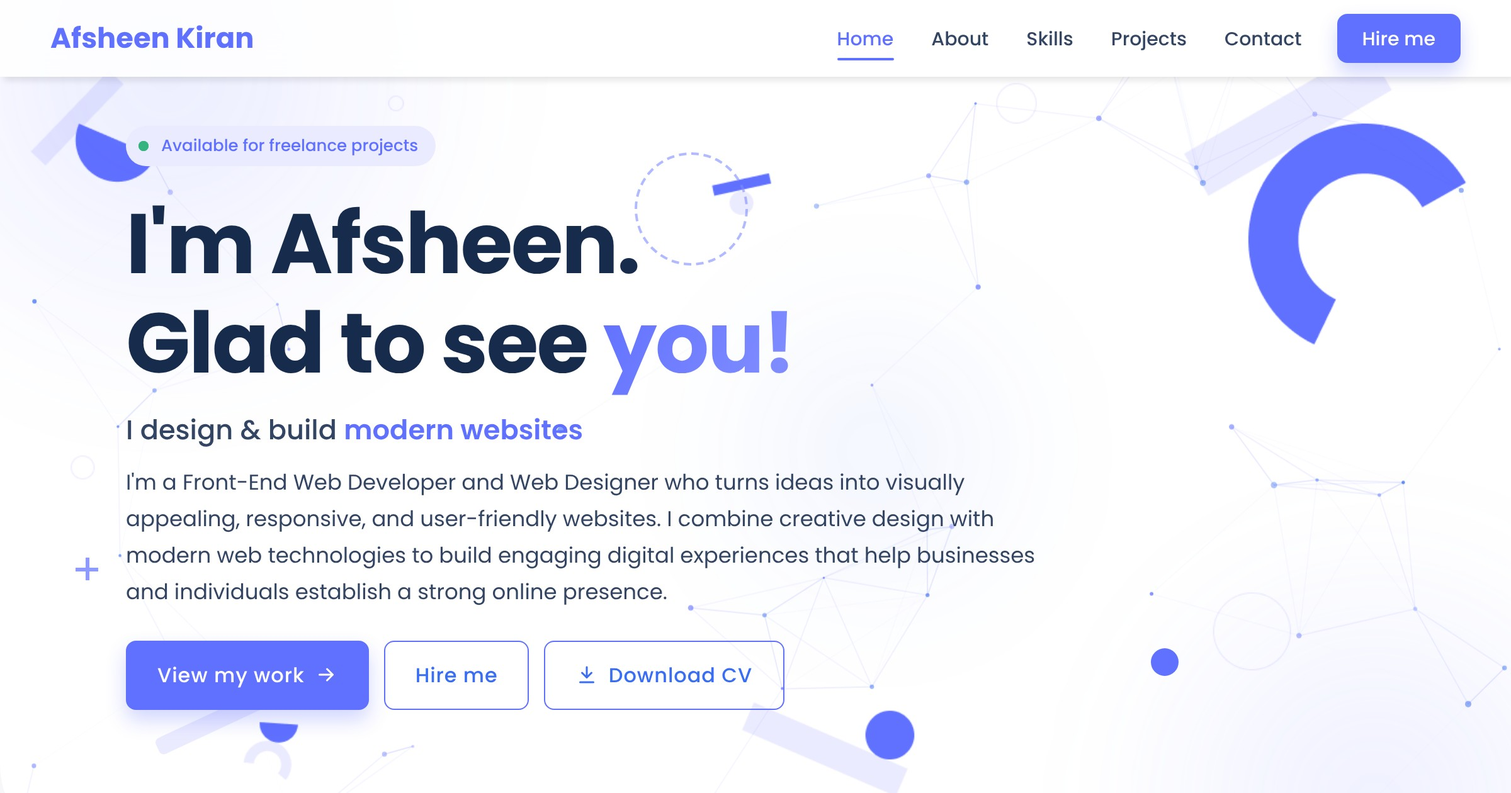
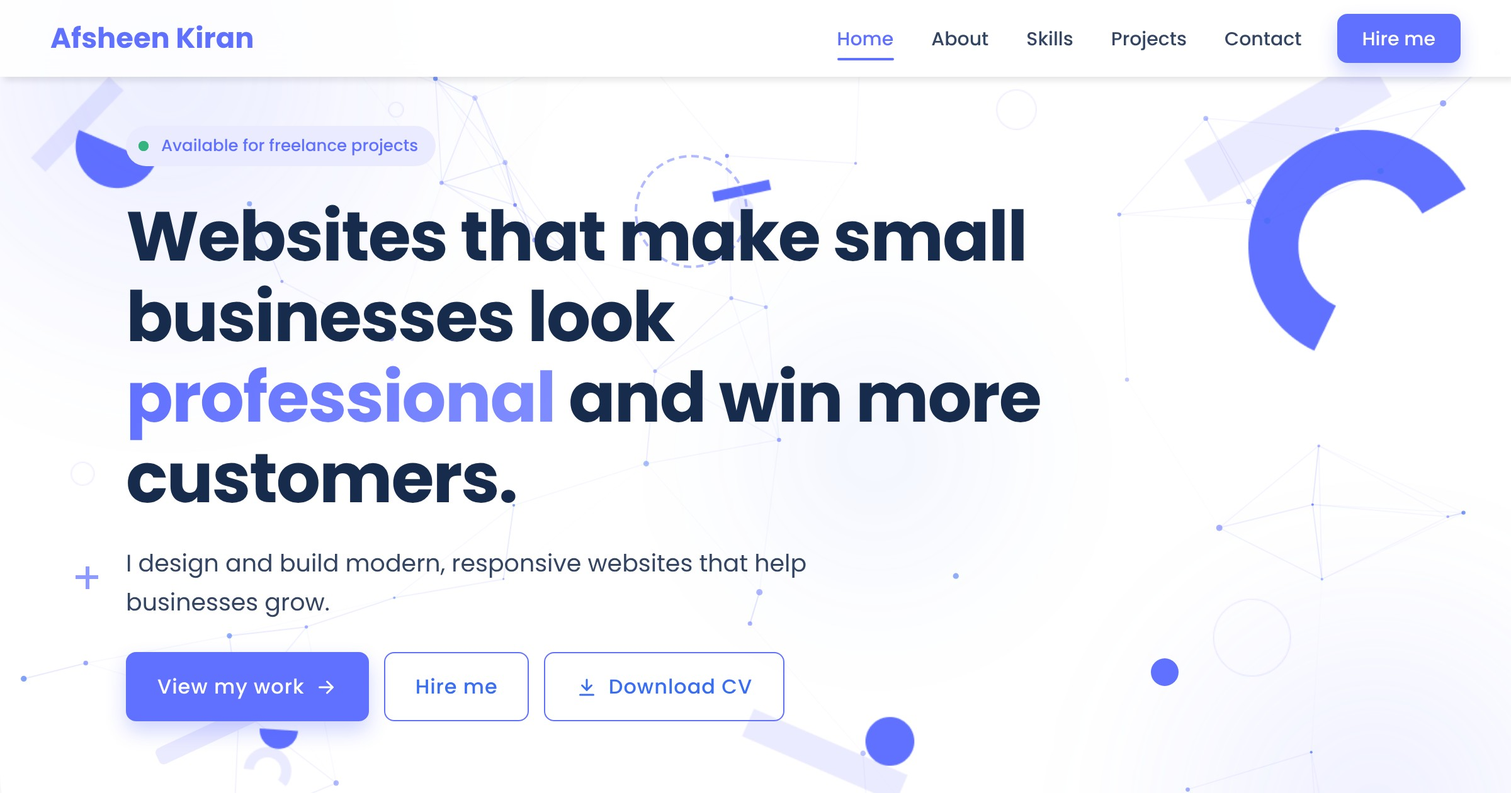
Client-focused hero headline and add BidNest as Project 05
- Hero: new headline and a short two-line intro; the typed line that repeated
  the intro is removed
- BidNest joins PROJECTS (own_page) so it appears on Home and Projects with a
  View Case Study link to the existing page; the build never overwrites it
- Projects filter gains UI/UX Design; counts now All 5
- Quick view supports a custom link label and hides the empty source button
- Case-study prev/next now pass through BidNest; sitemap includes it
- Refresh the link-preview screenshot

Claude-Session: https://claude.ai/code/session_0127q1ox5UVrQmZGSpPh9mkh

diff --git a/index.html b/index.html
@@ -5,14 +5,14 @@
   <meta charset="UTF-8">
   <meta name="viewport" content="width=device-width, initial-scale=1.0">
   <title>Afsheen Kiran | Front-End Web Developer &amp; Web Designer</title>
-  <meta name="description" content="Afsheen Kiran is a front-end web developer and web designer who turns ideas into visually appealing, responsive and user-friendly websites. See HighTechZone, Learning AI Lecture Hub, Fomi Studio and Fomi Flow.">
+  <meta name="description" content="Afsheen Kiran is a front-end web developer and web designer who turns ideas into visually appealing, responsive and user-friendly websites. See HighTechZone, Learning AI Lecture Hub, Fomi Studio, Fomi Flow and BidNest.">
   <meta name="author" content="Afsheen Kiran">
   <meta name="theme-color" content="#6070ff">
   <link rel="canonical" href="https://afsheen96.github.io/Portfolio/">
   <meta property="og:type" content="website">
   <meta property="og:site_name" content="Afsheen Kiran Portfolio">
   <meta property="og:title" content="Afsheen Kiran | Front-End Web Developer &amp; Web Designer">
-  <meta property="og:description" content="Afsheen Kiran is a front-end web developer and web designer who turns ideas into visually appealing, responsive and user-friendly websites. See HighTechZone, Learning AI Lecture Hub, Fomi Studio and Fomi Flow.">
+  <meta property="og:description" content="Afsheen Kiran is a front-end web developer and web designer who turns ideas into visually appealing, responsive and user-friendly websites. See HighTechZone, Learning AI Lecture Hub, Fomi Studio, Fomi Flow and BidNest.">
   <meta property="og:url" content="https://afsheen96.github.io/Portfolio/">
   <meta property="og:locale" content="en_US">
   <meta property="og:image" content="https://afsheen96.github.io/Portfolio/resources/og-hero.jpg">
@@ -22,7 +22,7 @@
   <meta property="og:image:height" content="1260">
   <meta name="twitter:card" content="summary_large_image">
   <meta name="twitter:title" content="Afsheen Kiran | Front-End Web Developer &amp; Web Designer">
-  <meta name="twitter:description" content="Afsheen Kiran is a front-end web developer and web designer who turns ideas into visually appealing, responsive and user-friendly websites. See HighTechZone, Learning AI Lecture Hub, Fomi Studio and Fomi Flow.">
+  <meta name="twitter:description" content="Afsheen Kiran is a front-end web developer and web designer who turns ideas into visually appealing, responsive and user-friendly websites. See HighTechZone, Learning AI Lecture Hub, Fomi Studio, Fomi Flow and BidNest.">
   <meta name="twitter:image" content="https://afsheen96.github.io/Portfolio/resources/og-hero.jpg">
   <link rel="icon" href="favicon.svg" type="image/svg+xml">
   <link rel="preconnect" href="https://fonts.googleapis.com">
@@ -77,19 +77,9 @@
       <section class="headline">
         <p class="availability hero-in d-0"><span class="pulse"></span>Available for freelance projects</p>
         <h1 class="heading hero-heading">
-          <span class="line"><span>I'm Afsheen.</span></span>
-          <span class="line"><span>Glad to see <span class="gradient-text">you!</span></span></span>
+          <span class="line"><span>Websites that make small businesses look <span class="gradient-text">professional</span> and win more customers.</span></span>
         </h1>
-        <p class="hero-roles hero-in d-3" aria-live="polite">
-          I design &amp; build <span class="typed" id="typed">modern websites</span><span class="caret" aria-hidden="true"></span>
-        </p>
-        <p class="headline-paragraph hero-in d-4">
-          I'm a Front-End Web Developer and Web Designer who turns ideas into
-          visually appealing, responsive, and user-friendly websites. I combine
-          creative design with modern web technologies to build engaging digital
-          experiences that help businesses and individuals establish a strong
-          online presence.
-        </p>
+        <p class="headline-paragraph hero-intro hero-in d-3">I design and build modern, responsive websites that help businesses grow.</p>
         <div class="hero-actions hero-in d-5">
           <a class="btn btn-primary btn-shine magnetic" href="projects/">View my work <svg viewBox="0 0 24 24" aria-hidden="true"><path d="M5 12h14M13 6l6 6-6 6"/></svg></a>
           <a class="btn btn-ghost magnetic" href="hire-me/">Hire me</a>
@@ -256,6 +246,39 @@
           </div>
         </div>
       </article>
+      <article class="project-card reveal" data-category="design">
+        <a class="pc-media" href="projects/bidnest/" aria-label="Open the BidNest case study" tabindex="-1">
+          <span class="pc-glow" aria-hidden="true"></span>
+          <div class="browser-frame pc-desktop">
+            <div class="browser-bar"><span></span><span></span><span></span><em>Figma · BidNest UI/UX case study</em></div>
+            <div class="frame-shot"><img src="resources/shots/bidnest-desktop.webp" alt="The BidNest screens designed in Figma" width="1440" height="900" loading="lazy" decoding="async"></div>
+          </div>
+          <div class="phone-frame pc-phone"><span class="phone-notch"></span><img src="resources/shots/bidnest-mobile.webp" alt="Screenshot of BidNest on a phone" width="585" height="1266" loading="lazy" decoding="async"></div>
+          <span class="pc-hint" aria-hidden="true">View case study <svg viewBox="0 0 24 24" aria-hidden="true"><path d="M5 12h14M13 6l6 6-6 6"/></svg></span>
+        </a>
+        <div class="pc-body">
+          <div class="pc-top">
+            <span class="pc-num">05</span>
+            <span class="pc-type">UI/UX Design</span>
+            
+          </div>
+          <h3 class="pc-title"><a href="projects/bidnest/">BidNest</a></h3>
+          <ul class="proj">
+            <li><strong>Personal</strong></li>
+            <li><div class="dot"></div></li>
+            <li>UI/UX Designer</li>
+            <li><div class="dot"></div></li>
+            <li>2026</li>
+          </ul>
+          <p class="pro">A UI/UX case study designed in Figma: a real-estate bidding app with its own design system and a clickable prototype that makes the highest bid, time left and bid status clear at a glance.</p>
+          <ul class="language"><li>Figma</li><li>UI/UX Design</li><li>Design System</li><li>Prototyping</li></ul>
+          <div class="work-actions">
+            <a class="btn btn-primary btn-shine magnetic" href="projects/bidnest/">View Case Study <svg viewBox="0 0 24 24" aria-hidden="true"><path d="M5 12h14M13 6l6 6-6 6"/></svg></a>
+            <a class="btn btn-ghost magnetic" href="https://www.behance.net/gallery/257870063/BidNest-Real-Estate-Bidding-App-UIUX-Case-Study" target="_blank" rel="noopener">Behance <svg viewBox="0 0 24 24" aria-hidden="true"><path d="M14 4h6v6M20 4l-9 9M18 14v5a1 1 0 0 1-1 1H5a1 1 0 0 1-1-1V7a1 1 0 0 1 1-1h5"/></svg></a>
+            <button type="button" class="icon-link quick-view" data-project="bidnest" aria-label="Quick view of BidNest" title="Quick view"><svg viewBox="0 0 24 24" aria-hidden="true"><path d="M2 12s3.6-7 10-7 10 7 10 7-3.6 7-10 7S2 12 2 12z"/><circle cx="12" cy="12" r="3"/></svg></button>
+          </div>
+        </div>
+      </article>
       </div>
       <div class="center-link reveal"><a class="btn btn-ghost magnetic" href="projects/">See all projects <svg viewBox="0 0 24 24" aria-hidden="true"><path d="M5 12h14M13 6l6 6-6 6"/></svg></a></div>
     </section>
@@ -292,7 +315,7 @@
       </div>
     </section>
   </main>
-  <script type="application/json" id="projects-data">[{"slug": "hightechzone", "name": "HighTechZone", "client": "Personal", "role": "Founder, Designer & Developer", "year": "2026", "text": "HighTechZone is my own website, \"Your Gateway to Smarter Technology\". It brings AI tool guides, practical tech tips, digital-skills tutorials and free resources together in one place. I designed and built it myself with plain HTML, CSS and JavaScript: a bold dark theme with warm gradients, an animated hero, dropdown navigation, a search dialog, FAQ sections, articles and interactive tools such as an AI Prompt Builder, a Password Strength Checker and a Budget Tracker template.", "tech": ["HTML5", "CSS3", "JavaScript", "SEO", "GitHub Pages", "Git"], "image": "resources/shots/hightechzone-desktop.webp", "live": "https://afsheen96.github.io/HighTechZone/", "source": "https://github.com/Afsheen96", "sourceLabel": "GitHub profile", "page": "projects/hightechzone/"}, {"slug": "learning-ai-lecture-hub", "name": "Learning AI Lecture Hub", "client": "Personal (student project)", "role": "Designer & Developer", "year": "2026", "text": "Learning AI Lecture Hub (published as \"Learn Freelancing AI — Lecture Library\") is an independent, student-made page that collects the links to Sir Hisham Sarwar's Learn Freelancing AI lectures, so learners can find any lecture in seconds. Learners can search by lecture name, number or topic, filter by category (AI & Automation, Freelancing, Web & App Development, Digital Marketing) and open the original video with one click. The page clearly states that it is not an official website and that the videos stay on Facebook.", "tech": ["HTML5", "CSS3", "JavaScript", "JSON", "Node.js build script", "GitHub Actions", "GitHub Pages"], "image": "resources/shots/lecture-hub-desktop.webp", "live": "https://afsheen96.github.io/lecture-library/", "source": "https://github.com/Afsheen96/lecture-library", "sourceLabel": "Source code", "page": "projects/learning-ai-lecture-hub/"}, {"slug": "fomi-studio", "name": "Fomi Studio: AI Image Workspace", "client": "Hiring Assessment", "role": "Frontend Developer", "year": "2026", "text": "I built this as part of a frontend hiring assessment: an AI Image Generator design mockup turned into a real, working Next.js app. It includes a model picker, reference uploads, a prompt box with keyboard shortcuts, a mocked API that \"generates\" images and videos, loading placeholders in the right shape, a masonry gallery, a full-size viewer with keyboard navigation, and a guided tutorial that highlights the real controls.", "tech": ["Next.js", "React", "CSS Modules", "JavaScript", "Vercel", "GitHub"], "image": "resources/shots/fomi-studio-desktop.webp", "live": "https://fomi-studio-weld.vercel.app", "source": "https://github.com/Afsheen96/fomi-studio", "sourceLabel": "Source code", "page": "projects/fomi-studio/"}, {"slug": "fomi-flow", "name": "Fomi Flow: Version-based Workspace", "client": "Hiring Assessment", "role": "Product & UI", "year": "2026", "text": "My own concept, created during the same frontend hiring assessment. Most AI image tools show results as an endless feed, so good results get lost. In Fomi Flow every generation is a version inside a project. A version strip shows the history (with branches like \"from v2\"), a compare slider puts two versions side by side, and a \"What changed\" panel lists the prompt words added or removed and any settings change.", "tech": ["Next.js", "React", "UX Design", "JavaScript", "CSS Modules", "Vercel"], "image": "resources/shots/fomi-flow-desktop.webp", "live": "https://fomi-studio-weld.vercel.app/flow", "source": "https://github.com/Afsheen96/fomi-studio", "sourceLabel": "Source code", "page": "projects/fomi-flow/"}]</script>
+  <script type="application/json" id="projects-data">[{"slug": "hightechzone", "name": "HighTechZone", "client": "Personal", "role": "Founder, Designer & Developer", "year": "2026", "text": "HighTechZone is my own website, \"Your Gateway to Smarter Technology\". It brings AI tool guides, practical tech tips, digital-skills tutorials and free resources together in one place. I designed and built it myself with plain HTML, CSS and JavaScript: a bold dark theme with warm gradients, an animated hero, dropdown navigation, a search dialog, FAQ sections, articles and interactive tools such as an AI Prompt Builder, a Password Strength Checker and a Budget Tracker template.", "tech": ["HTML5", "CSS3", "JavaScript", "SEO", "GitHub Pages", "Git"], "image": "resources/shots/hightechzone-desktop.webp", "live": "https://afsheen96.github.io/HighTechZone/", "source": "https://github.com/Afsheen96", "sourceLabel": "GitHub profile", "liveLabel": "Live Link", "page": "projects/hightechzone/"}, {"slug": "learning-ai-lecture-hub", "name": "Learning AI Lecture Hub", "client": "Personal (student project)", "role": "Designer & Developer", "year": "2026", "text": "Learning AI Lecture Hub (published as \"Learn Freelancing AI — Lecture Library\") is an independent, student-made page that collects the links to Sir Hisham Sarwar's Learn Freelancing AI lectures, so learners can find any lecture in seconds. Learners can search by lecture name, number or topic, filter by category (AI & Automation, Freelancing, Web & App Development, Digital Marketing) and open the original video with one click. The page clearly states that it is not an official website and that the videos stay on Facebook.", "tech": ["HTML5", "CSS3", "JavaScript", "JSON", "Node.js build script", "GitHub Actions", "GitHub Pages"], "image": "resources/shots/lecture-hub-desktop.webp", "live": "https://afsheen96.github.io/lecture-library/", "source": "https://github.com/Afsheen96/lecture-library", "sourceLabel": "Source code", "liveLabel": "Live Link", "page": "projects/learning-ai-lecture-hub/"}, {"slug": "fomi-studio", "name": "Fomi Studio: AI Image Workspace", "client": "Hiring Assessment", "role": "Frontend Developer", "year": "2026", "text": "I built this as part of a frontend hiring assessment: an AI Image Generator design mockup turned into a real, working Next.js app. It includes a model picker, reference uploads, a prompt box with keyboard shortcuts, a mocked API that \"generates\" images and videos, loading placeholders in the right shape, a masonry gallery, a full-size viewer with keyboard navigation, and a guided tutorial that highlights the real controls.", "tech": ["Next.js", "React", "CSS Modules", "JavaScript", "Vercel", "GitHub"], "image": "resources/shots/fomi-studio-desktop.webp", "live": "https://fomi-studio-weld.vercel.app", "source": "https://github.com/Afsheen96/fomi-studio", "sourceLabel": "Source code", "liveLabel": "Live Link", "page": "projects/fomi-studio/"}, {"slug": "fomi-flow", "name": "Fomi Flow: Version-based Workspace", "client": "Hiring Assessment", "role": "Product & UI", "year": "2026", "text": "My own concept, created during the same frontend hiring assessment. Most AI image tools show results as an endless feed, so good results get lost. In Fomi Flow every generation is a version inside a project. A version strip shows the history (with branches like \"from v2\"), a compare slider puts two versions side by side, and a \"What changed\" panel lists the prompt words added or removed and any settings change.", "tech": ["Next.js", "React", "UX Design", "JavaScript", "CSS Modules", "Vercel"], "image": "resources/shots/fomi-flow-desktop.webp", "live": "https://fomi-studio-weld.vercel.app/flow", "source": "https://github.com/Afsheen96/fomi-studio", "sourceLabel": "Source code", "liveLabel": "Live Link", "page": "projects/fomi-flow/"}, {"slug": "bidnest", "name": "BidNest", "client": "Personal", "role": "UI/UX Designer", "year": "2026", "text": "A mobile app redesign of my MSc house bidding website, designed in Figma. I built a reusable design system (9 colour styles, 6 text styles, 12 components) and five screens, Home, Property Details, Live Bidding, an Outbid state and My Bids, linked into a clickable prototype.", "tech": ["Figma", "UI/UX Design", "Design System", "Prototyping"], "image": "resources/shots/bidnest-desktop.webp", "live": "https://www.behance.net/gallery/257870063/BidNest-Real-Estate-Bidding-App-UIUX-Case-Study", "source": "", "sourceLabel": "", "liveLabel": "View on Behance", "page": "projects/bidnest/"}]</script>
   <div id="popupWindow" class="project_window"></div>
 
   <footer class="site-footer">

diff --git a/projects/index.html b/projects/index.html
@@ -5,14 +5,14 @@
   <meta charset="UTF-8">
   <meta name="viewport" content="width=device-width, initial-scale=1.0">
   <title>Projects | Afsheen Kiran Portfolio</title>
-  <meta name="description" content="Website and web app projects by Afsheen Kiran: HighTechZone, Learning AI Lecture Hub, Fomi Studio and Fomi Flow, each with a full case study and live link.">
+  <meta name="description" content="Website, web app and UI/UX design projects by Afsheen Kiran: HighTechZone, Learning AI Lecture Hub, Fomi Studio, Fomi Flow and BidNest, each with a full case study.">
   <meta name="author" content="Afsheen Kiran">
   <meta name="theme-color" content="#6070ff">
   <link rel="canonical" href="https://afsheen96.github.io/Portfolio/projects/">
   <meta property="og:type" content="website">
   <meta property="og:site_name" content="Afsheen Kiran Portfolio">
   <meta property="og:title" content="Projects | Afsheen Kiran Portfolio">
-  <meta property="og:description" content="Website and web app projects by Afsheen Kiran: HighTechZone, Learning AI Lecture Hub, Fomi Studio and Fomi Flow, each with a full case study and live link.">
+  <meta property="og:description" content="Website, web app and UI/UX design projects by Afsheen Kiran: HighTechZone, Learning AI Lecture Hub, Fomi Studio, Fomi Flow and BidNest, each with a full case study.">
   <meta property="og:url" content="https://afsheen96.github.io/Portfolio/projects/">
   <meta property="og:locale" content="en_US">
   <meta property="og:image" content="https://afsheen96.github.io/Portfolio/resources/og-hero.jpg">
@@ -22,7 +22,7 @@
   <meta property="og:image:height" content="1260">
   <meta name="twitter:card" content="summary_large_image">
   <meta name="twitter:title" content="Projects | Afsheen Kiran Portfolio">
-  <meta name="twitter:description" content="Website and web app projects by Afsheen Kiran: HighTechZone, Learning AI Lecture Hub, Fomi Studio and Fomi Flow, each with a full case study and live link.">
+  <meta name="twitter:description" content="Website, web app and UI/UX design projects by Afsheen Kiran: HighTechZone, Learning AI Lecture Hub, Fomi Studio, Fomi Flow and BidNest, each with a full case study.">
   <meta name="twitter:image" content="https://afsheen96.github.io/Portfolio/resources/og-hero.jpg">
   <link rel="icon" href="../favicon.svg" type="image/svg+xml">
   <link rel="preconnect" href="https://fonts.googleapis.com">
@@ -74,9 +74,10 @@
     </section>
     <section class="work-section projects-page">
       <div class="filter-bar reveal" role="group" aria-label="Filter projects">
-        <button type="button" class="filter-btn active" data-filter="all" aria-pressed="true">All <span>4</span></button>
+        <button type="button" class="filter-btn active" data-filter="all" aria-pressed="true">All <span>5</span></button>
         <button type="button" class="filter-btn" data-filter="website" aria-pressed="false">Websites <span>2</span></button>
         <button type="button" class="filter-btn" data-filter="webapp" aria-pressed="false">Web Apps <span>2</span></button>
+        <button type="button" class="filter-btn" data-filter="design" aria-pressed="false">UI/UX Design <span>1</span></button>
       </div>
       <div class="project-list">
       <article class="project-card reveal is-featured" data-category="website">
@@ -207,6 +208,39 @@
           </div>
         </div>
       </article>
+      <article class="project-card reveal" data-category="design">
+        <a class="pc-media" href="../projects/bidnest/" aria-label="Open the BidNest case study" tabindex="-1">
+          <span class="pc-glow" aria-hidden="true"></span>
+          <div class="browser-frame pc-desktop">
+            <div class="browser-bar"><span></span><span></span><span></span><em>Figma · BidNest UI/UX case study</em></div>
+            <div class="frame-shot"><img src="../resources/shots/bidnest-desktop.webp" alt="The BidNest screens designed in Figma" width="1440" height="900" loading="lazy" decoding="async"></div>
+          </div>
+          <div class="phone-frame pc-phone"><span class="phone-notch"></span><img src="../resources/shots/bidnest-mobile.webp" alt="Screenshot of BidNest on a phone" width="585" height="1266" loading="lazy" decoding="async"></div>
+          <span class="pc-hint" aria-hidden="true">View case study <svg viewBox="0 0 24 24" aria-hidden="true"><path d="M5 12h14M13 6l6 6-6 6"/></svg></span>
+        </a>
+        <div class="pc-body">
+          <div class="pc-top">
+            <span class="pc-num">05</span>
+            <span class="pc-type">UI/UX Design</span>
+            
+          </div>
+          <h3 class="pc-title"><a href="../projects/bidnest/">BidNest</a></h3>
+          <ul class="proj">
+            <li><strong>Personal</strong></li>
+            <li><div class="dot"></div></li>
+            <li>UI/UX Designer</li>
+            <li><div class="dot"></div></li>
+            <li>2026</li>
+          </ul>
+          <p class="pro">A UI/UX case study designed in Figma: a real-estate bidding app with its own design system and a clickable prototype that makes the highest bid, time left and bid status clear at a glance.</p>
+          <ul class="language"><li>Figma</li><li>UI/UX Design</li><li>Design System</li><li>Prototyping</li></ul>
+          <div class="work-actions">
+            <a class="btn btn-primary btn-shine magnetic" href="../projects/bidnest/">View Case Study <svg viewBox="0 0 24 24" aria-hidden="true"><path d="M5 12h14M13 6l6 6-6 6"/></svg></a>
+            <a class="btn btn-ghost magnetic" href="https://www.behance.net/gallery/257870063/BidNest-Real-Estate-Bidding-App-UIUX-Case-Study" target="_blank" rel="noopener">Behance <svg viewBox="0 0 24 24" aria-hidden="true"><path d="M14 4h6v6M20 4l-9 9M18 14v5a1 1 0 0 1-1 1H5a1 1 0 0 1-1-1V7a1 1 0 0 1 1-1h5"/></svg></a>
+            <button type="button" class="icon-link quick-view" data-project="bidnest" aria-label="Quick view of BidNest" title="Quick view"><svg viewBox="0 0 24 24" aria-hidden="true"><path d="M2 12s3.6-7 10-7 10 7 10 7-3.6 7-10 7S2 12 2 12z"/><circle cx="12" cy="12" r="3"/></svg></button>
+          </div>
+        </div>
+      </article>
       </div>
     </section>
 
@@ -222,7 +256,7 @@
       </div>
     </section>
   </main>
-  <script type="application/json" id="projects-data">[{"slug": "hightechzone", "name": "HighTechZone", "client": "Personal", "role": "Founder, Designer & Developer", "year": "2026", "text": "HighTechZone is my own website, \"Your Gateway to Smarter Technology\". It brings AI tool guides, practical tech tips, digital-skills tutorials and free resources together in one place. I designed and built it myself with plain HTML, CSS and JavaScript: a bold dark theme with warm gradients, an animated hero, dropdown navigation, a search dialog, FAQ sections, articles and interactive tools such as an AI Prompt Builder, a Password Strength Checker and a Budget Tracker template.", "tech": ["HTML5", "CSS3", "JavaScript", "SEO", "GitHub Pages", "Git"], "image": "../resources/shots/hightechzone-desktop.webp", "live": "https://afsheen96.github.io/HighTechZone/", "source": "https://github.com/Afsheen96", "sourceLabel": "GitHub profile", "page": "../projects/hightechzone/"}, {"slug": "learning-ai-lecture-hub", "name": "Learning AI Lecture Hub", "client": "Personal (student project)", "role": "Designer & Developer", "year": "2026", "text": "Learning AI Lecture Hub (published as \"Learn Freelancing AI — Lecture Library\") is an independent, student-made page that collects the links to Sir Hisham Sarwar's Learn Freelancing AI lectures, so learners can find any lecture in seconds. Learners can search by lecture name, number or topic, filter by category (AI & Automation, Freelancing, Web & App Development, Digital Marketing) and open the original video with one click. The page clearly states that it is not an official website and that the videos stay on Facebook.", "tech": ["HTML5", "CSS3", "JavaScript", "JSON", "Node.js build script", "GitHub Actions", "GitHub Pages"], "image": "../resources/shots/lecture-hub-desktop.webp", "live": "https://afsheen96.github.io/lecture-library/", "source": "https://github.com/Afsheen96/lecture-library", "sourceLabel": "Source code", "page": "../projects/learning-ai-lecture-hub/"}, {"slug": "fomi-studio", "name": "Fomi Studio: AI Image Workspace", "client": "Hiring Assessment", "role": "Frontend Developer", "year": "2026", "text": "I built this as part of a frontend hiring assessment: an AI Image Generator design mockup turned into a real, working Next.js app. It includes a model picker, reference uploads, a prompt box with keyboard shortcuts, a mocked API that \"generates\" images and videos, loading placeholders in the right shape, a masonry gallery, a full-size viewer with keyboard navigation, and a guided tutorial that highlights the real controls.", "tech": ["Next.js", "React", "CSS Modules", "JavaScript", "Vercel", "GitHub"], "image": "../resources/shots/fomi-studio-desktop.webp", "live": "https://fomi-studio-weld.vercel.app", "source": "https://github.com/Afsheen96/fomi-studio", "sourceLabel": "Source code", "page": "../projects/fomi-studio/"}, {"slug": "fomi-flow", "name": "Fomi Flow: Version-based Workspace", "client": "Hiring Assessment", "role": "Product & UI", "year": "2026", "text": "My own concept, created during the same frontend hiring assessment. Most AI image tools show results as an endless feed, so good results get lost. In Fomi Flow every generation is a version inside a project. A version strip shows the history (with branches like \"from v2\"), a compare slider puts two versions side by side, and a \"What changed\" panel lists the prompt words added or removed and any settings change.", "tech": ["Next.js", "React", "UX Design", "JavaScript", "CSS Modules", "Vercel"], "image": "../resources/shots/fomi-flow-desktop.webp", "live": "https://fomi-studio-weld.vercel.app/flow", "source": "https://github.com/Afsheen96/fomi-studio", "sourceLabel": "Source code", "page": "../projects/fomi-flow/"}]</script>
+  <script type="application/json" id="projects-data">[{"slug": "hightechzone", "name": "HighTechZone", "client": "Personal", "role": "Founder, Designer & Developer", "year": "2026", "text": "HighTechZone is my own website, \"Your Gateway to Smarter Technology\". It brings AI tool guides, practical tech tips, digital-skills tutorials and free resources together in one place. I designed and built it myself with plain HTML, CSS and JavaScript: a bold dark theme with warm gradients, an animated hero, dropdown navigation, a search dialog, FAQ sections, articles and interactive tools such as an AI Prompt Builder, a Password Strength Checker and a Budget Tracker template.", "tech": ["HTML5", "CSS3", "JavaScript", "SEO", "GitHub Pages", "Git"], "image": "../resources/shots/hightechzone-desktop.webp", "live": "https://afsheen96.github.io/HighTechZone/", "source": "https://github.com/Afsheen96", "sourceLabel": "GitHub profile", "liveLabel": "Live Link", "page": "../projects/hightechzone/"}, {"slug": "learning-ai-lecture-hub", "name": "Learning AI Lecture Hub", "client": "Personal (student project)", "role": "Designer & Developer", "year": "2026", "text": "Learning AI Lecture Hub (published as \"Learn Freelancing AI — Lecture Library\") is an independent, student-made page that collects the links to Sir Hisham Sarwar's Learn Freelancing AI lectures, so learners can find any lecture in seconds. Learners can search by lecture name, number or topic, filter by category (AI & Automation, Freelancing, Web & App Development, Digital Marketing) and open the original video with one click. The page clearly states that it is not an official website and that the videos stay on Facebook.", "tech": ["HTML5", "CSS3", "JavaScript", "JSON", "Node.js build script", "GitHub Actions", "GitHub Pages"], "image": "../resources/shots/lecture-hub-desktop.webp", "live": "https://afsheen96.github.io/lecture-library/", "source": "https://github.com/Afsheen96/lecture-library", "sourceLabel": "Source code", "liveLabel": "Live Link", "page": "../projects/learning-ai-lecture-hub/"}, {"slug": "fomi-studio", "name": "Fomi Studio: AI Image Workspace", "client": "Hiring Assessment", "role": "Frontend Developer", "year": "2026", "text": "I built this as part of a frontend hiring assessment: an AI Image Generator design mockup turned into a real, working Next.js app. It includes a model picker, reference uploads, a prompt box with keyboard shortcuts, a mocked API that \"generates\" images and videos, loading placeholders in the right shape, a masonry gallery, a full-size viewer with keyboard navigation, and a guided tutorial that highlights the real controls.", "tech": ["Next.js", "React", "CSS Modules", "JavaScript", "Vercel", "GitHub"], "image": "../resources/shots/fomi-studio-desktop.webp", "live": "https://fomi-studio-weld.vercel.app", "source": "https://github.com/Afsheen96/fomi-studio", "sourceLabel": "Source code", "liveLabel": "Live Link", "page": "../projects/fomi-studio/"}, {"slug": "fomi-flow", "name": "Fomi Flow: Version-based Workspace", "client": "Hiring Assessment", "role": "Product & UI", "year": "2026", "text": "My own concept, created during the same frontend hiring assessment. Most AI image tools show results as an endless feed, so good results get lost. In Fomi Flow every generation is a version inside a project. A version strip shows the history (with branches like \"from v2\"), a compare slider puts two versions side by side, and a \"What changed\" panel lists the prompt words added or removed and any settings change.", "tech": ["Next.js", "React", "UX Design", "JavaScript", "CSS Modules", "Vercel"], "image": "../resources/shots/fomi-flow-desktop.webp", "live": "https://fomi-studio-weld.vercel.app/flow", "source": "https://github.com/Afsheen96/fomi-studio", "sourceLabel": "Source code", "liveLabel": "Live Link", "page": "../projects/fomi-flow/"}, {"slug": "bidnest", "name": "BidNest", "client": "Personal", "role": "UI/UX Designer", "year": "2026", "text": "A mobile app redesign of my MSc house bidding website, designed in Figma. I built a reusable design system (9 colour styles, 6 text styles, 12 components) and five screens, Home, Property Details, Live Bidding, an Outbid state and My Bids, linked into a clickable prototype.", "tech": ["Figma", "UI/UX Design", "Design System", "Prototyping"], "image": "../resources/shots/bidnest-desktop.webp", "live": "https://www.behance.net/gallery/257870063/BidNest-Real-Estate-Bidding-App-UIUX-Case-Study", "source": "", "sourceLabel": "", "liveLabel": "View on Behance", "page": "../projects/bidnest/"}]</script>
   <div id="popupWindow" class="project_window"></div>
 
   <footer class="site-footer">

diff --git a/index.js b/index.js
@@ -54,8 +54,8 @@
             <ul class="language">${listItems(project.tech)}</ul>
             <div class="thin-line"></div>
             <div class="popup-actions">
-              <a href="${project.live}" class="btn btn-primary" target="_blank" rel="noopener">Live Link ${icons.external}</a>
-              <a href="${project.source}" class="btn btn-ghost" target="_blank" rel="noopener">${icons.code} ${escapeHtml(project.sourceLabel)}</a>
+              <a href="${project.live}" class="btn btn-primary" target="_blank" rel="noopener">${escapeHtml(project.liveLabel || 'Live Link')} ${icons.external}</a>
+              ${project.source ? `<a href="${project.source}" class="btn btn-ghost" target="_blank" rel="noopener">${icons.code} ${escapeHtml(project.sourceLabel)}</a>` : ''}
             </div>
             <a href="${project.page}" class="text-link">Read the full case study ${icons.arrow}</a>
           </div>

diff --git a/projects/fomi-flow/index.html b/projects/fomi-flow/index.html
@@ -208,7 +208,7 @@
 
     <nav class="case-wrap project-nav" aria-label="More projects">
       <a class="pn-link reveal" href="../../projects/fomi-studio/"><span><svg viewBox="0 0 24 24" aria-hidden="true"><path d="M19 12H5M11 18l-6-6 6-6"/></svg> Previous project</span><strong>Fomi Studio: AI Image Workspace</strong></a>
-      <a class="pn-link next reveal" href="../../projects/hightechzone/"><span>Next project <svg viewBox="0 0 24 24" aria-hidden="true"><path d="M5 12h14M13 6l6 6-6 6"/></svg></span><strong>HighTechZone</strong></a>
+      <a class="pn-link next reveal" href="../../projects/bidnest/"><span>Next project <svg viewBox="0 0 24 24" aria-hidden="true"><path d="M5 12h14M13 6l6 6-6 6"/></svg></span><strong>BidNest</strong></a>
     </nav>
   </main>
   <div class="lightbox" id="lightbox" hidden>

diff --git a/projects/hightechzone/index.html b/projects/hightechzone/index.html
@@ -216,7 +216,7 @@
     </section>
 
     <nav class="case-wrap project-nav" aria-label="More projects">
-      <a class="pn-link reveal" href="../../projects/fomi-flow/"><span><svg viewBox="0 0 24 24" aria-hidden="true"><path d="M19 12H5M11 18l-6-6 6-6"/></svg> Previous project</span><strong>Fomi Flow: Version-based Workspace</strong></a>
+      <a class="pn-link reveal" href="../../projects/bidnest/"><span><svg viewBox="0 0 24 24" aria-hidden="true"><path d="M19 12H5M11 18l-6-6 6-6"/></svg> Previous project</span><strong>BidNest</strong></a>
       <a class="pn-link next reveal" href="../../projects/learning-ai-lecture-hub/"><span>Next project <svg viewBox="0 0 24 24" aria-hidden="true"><path d="M5 12h14M13 6l6 6-6 6"/></svg></span><strong>Learning AI Lecture Hub</strong></a>
     </nav>
   </main>

diff --git a/style.css b/style.css
@@ -436,8 +436,9 @@ button:disabled {
 }
 
 .hero-heading {
-  font-size: clamp(2.4rem, 7vw, 4.2rem);
-  line-height: 1.12;
+  max-width: 15em;
+  font-size: clamp(1.85rem, 4.6vw, 3.5rem);
+  line-height: 1.16;
   letter-spacing: -0.02em;
   font-weight: 700;
 }
@@ -507,6 +508,13 @@ button:disabled {
   50% {
     opacity: 0;
   }
+}
+
+.headline-paragraph.hero-intro {
+  max-width: 34em;
+  margin-top: 18px;
+  font-size: clamp(16px, 1.6vw, 19px);
+  line-height: 1.6;
 }
 
 .headline-paragraph {

diff --git a/tools/build.py b/tools/build.py
@@ -187,9 +187,25 @@ PROJECTS = [
                   ('Works everywhere', 'Designed for phone, tablet and desktop.')],
         highlights=[('1 click', 'to compare any two versions'), ('Auto', '"what changed" summaries'), ('2026', 'concept, design &amp; build')],
     ),
+    dict(
+        # BidNest has its own hand-made case study page (projects/bidnest/index.html).
+        # own_page=True: cards link to it, but the build never overwrites it.
+        slug='bidnest', name='BidNest', full='BidNest', own_page=True,
+        short='Real-estate bidding app UI/UX',
+        tagline='A mobile app redesign of my MSc house bidding website, designed in Figma, that makes the highest bid, time left and your bid status clear at a glance.',
+        card='A UI/UX case study designed in Figma: a real-estate bidding app with its own design system and a clickable prototype that makes the highest bid, time left and bid status clear at a glance.',
+        client='Personal', role='UI/UX Designer', year='2026', type='UI/UX Design',
+        category='design', frame_label='Figma \u00b7 BidNest UI/UX case study',
+        live='https://www.behance.net/gallery/257870063/BidNest-Real-Estate-Bidding-App-UIUX-Case-Study', live_label='View on Behance', card_live_label='Behance',
+        source='', source_label='',
+        tech=['Figma', 'UI/UX Design', 'Design System', 'Prototyping'],
+        desktop='bidnest-desktop.webp', mobile='bidnest-mobile.webp', og='bidnest.jpg',
+        overview=['A mobile app redesign of my MSc house bidding website, designed in Figma.',
+                  'I built a reusable design system (9 colour styles, 6 text styles, 12 components) and five screens, Home, Property Details, Live Bidding, an Outbid state and My Bids, linked into a clickable prototype.'],
+    ),
 ]
 
-CATEGORY_LABEL = {'website': 'Website', 'webapp': 'Web App'}
+CATEGORY_LABEL = {'website': 'Website', 'webapp': 'Web App', 'design': 'UI/UX Design'}
 
 
 def shot(p, key):
@@ -329,8 +345,9 @@ def phone(src, alt, cls=''):
 
 def project_card(p, i, root, big=False):
     num = f'{i + 1:02d}'
-    host = p['live'].replace('https://', '').rstrip('/')
+    host = p.get('frame_label') or p['live'].replace('https://', '').rstrip('/')
     cls = 'project-card reveal' + (' is-featured' if big else '')
+    view = 'View Case Study' if p.get('own_page') else 'View Project'
     badge = f'<span class="feature-badge">{ICON["star"]} Featured project</span>' if p.get('featured') else ''
     if p.get('assessment'):
         badge += f'<span class="assess-badge">{ICON["briefcase"]} Hiring Assessment</span>'
@@ -340,7 +357,7 @@ def project_card(p, i, root, big=False):
       <article class="{cls}" data-category="{p['category']}">
         <a class="pc-media" href="{root}projects/{p['slug']}/" aria-label="Open the {p['full']} case study" tabindex="-1">
           <span class="pc-glow" aria-hidden="true"></span>
-          {frame(root + shot(p, 'desktop'), 'Screenshot of the ' + html.unescape(p['full']) + ' website on desktop', host, cls='pc-desktop')}
+          {frame(root + shot(p, 'desktop'), ('The ' + p['full'] + ' screens designed in Figma') if p['category'] == 'design' else ('Screenshot of the ' + html.unescape(p['full']) + ' website on desktop'), host, cls='pc-desktop')}
           {phone(root + shot(p, 'mobile'), 'Screenshot of ' + html.unescape(p['full']) + ' on a phone', 'pc-phone')}
           <span class="pc-hint" aria-hidden="true">View case study {ICON['arrow']}</span>
         </a>
@@ -359,8 +376,8 @@ def project_card(p, i, root, big=False):
           <p class="pro">{E(p['card'])}</p>
           <ul class="language">{tags}</ul>
           <div class="work-actions">
-            <a class="btn btn-primary btn-shine magnetic" href="{root}projects/{p['slug']}/">View Project {ICON['arrow']}</a>
-            <a class="btn btn-ghost magnetic" href="{p['live']}" target="_blank" rel="noopener">Live Preview {ICON['ext']}</a>
+            <a class="btn btn-primary btn-shine magnetic" href="{root}projects/{p['slug']}/">{view} {ICON['arrow']}</a>
+            <a class="btn btn-ghost magnetic" href="{p['live']}" target="_blank" rel="noopener">{p.get('card_live_label', p.get('live_label', 'Live Preview'))} {ICON['ext']}</a>
             <button type="button" class="icon-link quick-view" data-project="{p['slug']}" aria-label="Quick view of {p['full']}" title="Quick view">{ICON['eye']}</button>
           </div>
         </div>
@@ -371,7 +388,8 @@ def projects_json(root):
     data = [dict(slug=p['slug'], name=html.unescape(p['full']), client=html.unescape(p['client']),
                  role=html.unescape(p['role']), year=p['year'], text=html.unescape(' '.join(p['overview'])),
                  tech=p['tech'], image=root + shot(p, 'desktop'), live=p['live'], source=p['source'],
-                 sourceLabel=p['source_label'], page=f"{root}projects/{p['slug']}/") for p in PROJECTS]
+                 sourceLabel=p['source_label'], liveLabel=p.get('live_label', 'Live Link'),
+                 page=f"{root}projects/{p['slug']}/") for p in PROJECTS]
     return '<script type="application/json" id="projects-data">' + json.dumps(data, ensure_ascii=False).replace('</', '<\\/') + '</script>'
 
 
@@ -418,7 +436,7 @@ def home():
           "jobTitle": "Front-End Web Developer & Web Designer", "url": BASE,
           "sameAs": ["https://www.linkedin.com/in/afsheenkiran/", "https://github.com/Afsheen96"]}
     return head(root, '', 'Afsheen Kiran | Front-End Web Developer &amp; Web Designer',
-                'Afsheen Kiran is a front-end web developer and web designer who turns ideas into visually appealing, responsive and user-friendly websites. See HighTechZone, Learning AI Lecture Hub, Fomi Studio and Fomi Flow.',
+                'Afsheen Kiran is a front-end web developer and web designer who turns ideas into visually appealing, responsive and user-friendly websites. See HighTechZone, Learning AI Lecture Hub, Fomi Studio, Fomi Flow and BidNest.',
                 ld=ld) + header(root, 'home') + f'''
   <main id="main">
     <section class="main-container hero" id="top">
@@ -434,19 +452,9 @@ def home():
       <section class="headline">
         <p class="availability hero-in d-0"><span class="pulse"></span>Available for freelance projects</p>
         <h1 class="heading hero-heading">
-          <span class="line"><span>I'm Afsheen.</span></span>
-          <span class="line"><span>Glad to see <span class="gradient-text">you!</span></span></span>
+          <span class="line"><span>Websites that make small businesses look <span class="gradient-text">professional</span> and win more customers.</span></span>
         </h1>
-        <p class="hero-roles hero-in d-3" aria-live="polite">
-          I design &amp; build <span class="typed" id="typed">modern websites</span><span class="caret" aria-hidden="true"></span>
-        </p>
-        <p class="headline-paragraph hero-in d-4">
-          I'm a Front-End Web Developer and Web Designer who turns ideas into
-          visually appealing, responsive, and user-friendly websites. I combine
-          creative design with modern web technologies to build engaging digital
-          experiences that help businesses and individuals establish a strong
-          online presence.
-        </p>
+        <p class="headline-paragraph hero-intro hero-in d-3">I design and build modern, responsive websites that help businesses grow.</p>
         <div class="hero-actions hero-in d-5">
           <a class="btn btn-primary btn-shine magnetic" href="projects/">View my work {ICON['arrow']}</a>
           <a class="btn btn-ghost magnetic" href="hire-me/">Hire me</a>
@@ -614,7 +622,7 @@ def projects_index():
     root = '../'
     cards = ''.join(project_card(p, i, root, big=(i == 0)) for i, p in enumerate(PROJECTS))
     return head(root, 'projects/', 'Projects | Afsheen Kiran Portfolio',
-                'Website and web app projects by Afsheen Kiran: HighTechZone, Learning AI Lecture Hub, Fomi Studio and Fomi Flow, each with a full case study and live link.') + header(root, 'projects') + f'''
+                'Website, web app and UI/UX design projects by Afsheen Kiran: HighTechZone, Learning AI Lecture Hub, Fomi Studio, Fomi Flow and BidNest, each with a full case study.') + header(root, 'projects') + f'''
   <main id="main">
 {page_hero('Portfolio', 'My <span class="gradient-text">Projects</span>', 'Websites and web apps I designed and built. Open any project for the full case study, real screenshots and a live preview.')}
     <section class="work-section projects-page">
@@ -622,6 +630,7 @@ def projects_index():
         <button type="button" class="filter-btn active" data-filter="all" aria-pressed="true">All <span>{len(PROJECTS)}</span></button>
         <button type="button" class="filter-btn" data-filter="website" aria-pressed="false">Websites <span>{sum(p['category'] == 'website' for p in PROJECTS)}</span></button>
         <button type="button" class="filter-btn" data-filter="webapp" aria-pressed="false">Web Apps <span>{sum(p['category'] == 'webapp' for p in PROJECTS)}</span></button>
+        <button type="button" class="filter-btn" data-filter="design" aria-pressed="false">UI/UX Design <span>{sum(p['category'] == 'design' for p in PROJECTS)}</span></button>
       </div>
       <div class="project-list">{cards}
       </div>
@@ -1057,6 +1066,7 @@ if __name__ == '__main__':
     write('contact/index.html', contact())
     write('hire-me/index.html', hire())
     for i, proj in enumerate(PROJECTS):
-        write(f"projects/{proj['slug']}/index.html", case_page(proj, i))
+        if not proj.get('own_page'):
+            write(f"projects/{proj['slug']}/index.html", case_page(proj, i))
     write('404.html', not_found())
     write('sitemap.xml', sitemap())
